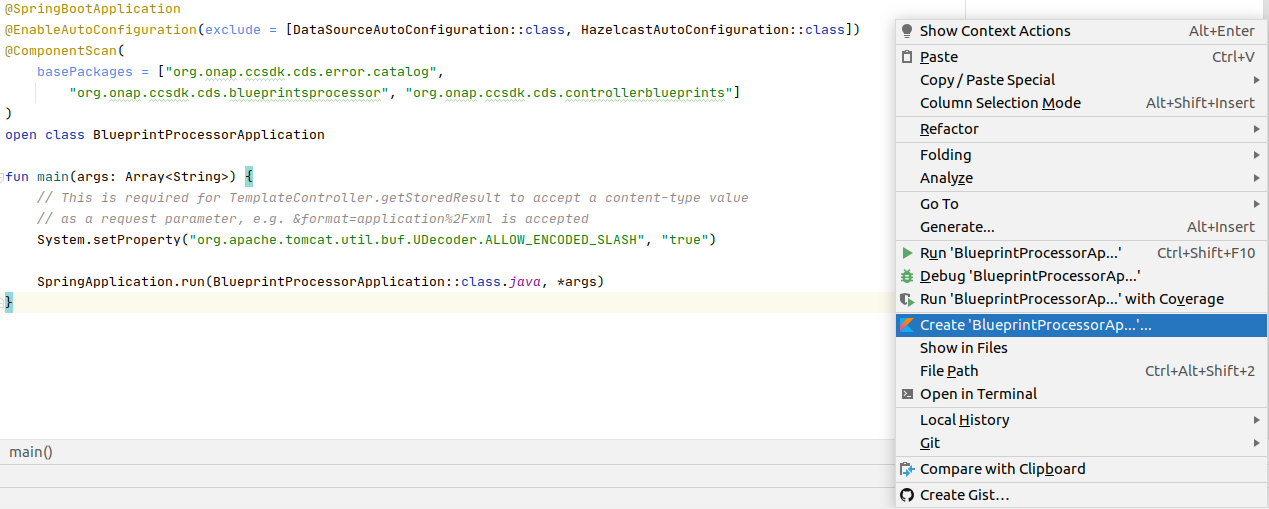
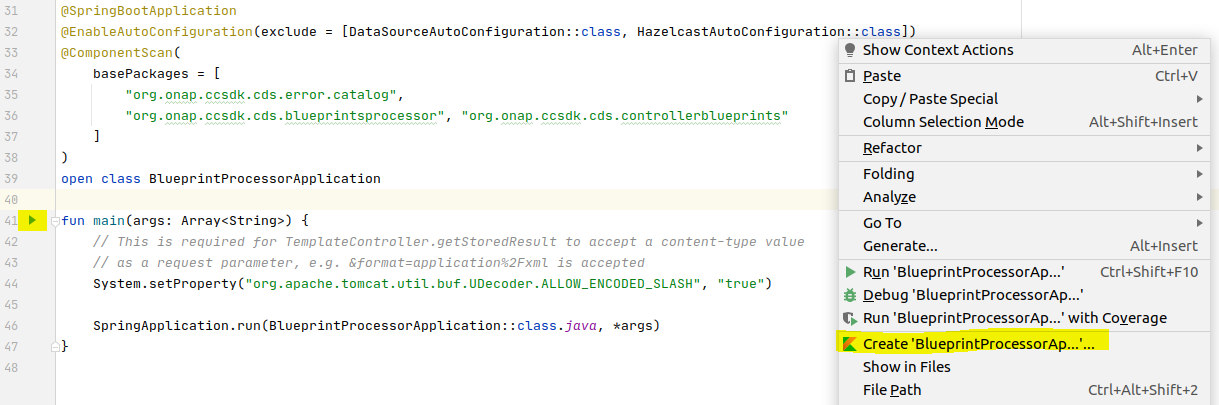
Guide Running CDS bp processor enhancements
Issue-ID: CCSDK-2640
(cherry picked from commit 4fe1cfb147e98cde707bb10c33cda7d4370a54a9)

diff --git a/docs/userguide/running-bp-processor-in-ide.rst b/docs/userguide/running-bp-processor-in-ide.rst
@@ -9,7 +9,7 @@ Running Blueprints Processor Microservice in an IDE
 Objective
 ~~~~~~~~~~~~
 
-Have the blueprint processor running locally is to use the IDE to run the code, while having the database running in a container.
+Run the blueprint processor locally in an IDE, while having the database running in a container.
 This way, code changes can be conveniently tested and debugged.
 
 Check out the code
@@ -26,6 +26,8 @@ In the checked out directory, type
 
    mvn clean install -Pq -Dadditionalparam=-Xdoclint:none
 
+Wait for the maven install command to finish until you go further.
+
 Spin up a Docker container with the database
 ~~~~~~~~~~~~~~~~~~~~~~~~~~~~~~~~~~~~~~~~~~~~~~
 
@@ -33,7 +35,7 @@ The Blueprints Processor project uses a database to store information about the 
 and therefore it needs to be online before attempting to run it.
 
 One way to create the database is by using the :file:`docker-compose.yaml` file.
-This database will require a local directory to mount a volume, before running docker-compose remember to create following directory:
+This database will require a local directory to mount a volume, therefore before running docker-compose create following directory:
 
 .. code-block:: bash
 
@@ -99,18 +101,21 @@ Import the project into the IDE
 
    .. tab:: IntelliJ IDEA
 
-      Go to *File | Open* and choose the :file:`pom.xml` file of the cds directory:
+      .. note::
+         This is the recommended IDE for running CDS blueprint processor.
+
+      Go to *File | Open* and choose the :file:`pom.xml` file of the cds/ms/blueprintprocessor directory:
 
       |imageImportProject|
 
-      Sometimes it may be necessary to reimport Maven project:
+      Import as a project. Sometimes it may be necessary to reimport Maven project, e.g. if some dependencies can't be found:
 
       |imageReimportMaven|
 
       **Override some application properties:**
 
-      After the project is compiled, a Run Configuration profile overriding some application properties
-      with custom values needs to be created, to reflect the local environment characteristics.
+      Next steps will create a run configuration profile overriding some application properties with custom values,
+      to reflect the local environment characteristics.
 
       .. tabs::
 
@@ -120,8 +125,10 @@ Import the project into the IDE
 
             ``ms/blueprintsprocessor/application/src/main/kotlin/org/onap/ccsdk/cds/blueprintsprocessor/BlueprintProcessorApplication.kt``.
 
-            Right-click inside it, at any point, to load the context menu and select create
-            BlueprintProcessorApplication configuration from context:
+            After dependencies are imported and indexes are set up you will see a green arrow
+            next to main function of BlueprintProcessorApplication class, indicating that the run configuration can now be
+            created. Right-click inside the class at any point to load the context menu and select create
+            a run configuration from context:
 
             |imageCreateRunConfigKt|
 
@@ -136,7 +143,7 @@ Import the project into the IDE
 
                -Dspring.profiles.active=dev
 
-            You can override any value from **application-dev.properties** file here. Use the following pattern:
+            Optional: You can override any value from **application-dev.properties** file here. In this case use the following pattern:
 
             .. code-block:: java
 
@@ -148,8 +155,10 @@ Import the project into the IDE
 
             ``ms/blueprintsprocessor/application/src/main/java/org/onap/ccsdk/cds/blueprintsprocessor/BlueprintProcessorApplication.java.``
 
-            Right-click inside it, at any point, to load the context menu and select create
-            BlueprintProcessorApplication configuration from context:
+            After dependencies are imported and indexes are set up you will see a green arrow
+            next to main function of BlueprintProcessorApplication class, indicating that the run configuration can now be
+            created. Right-click inside the class at any point to load the context menu and select create
+            a run configuration from context:
 
             |imageCreateRunConfigJava|
 
@@ -164,7 +173,7 @@ Import the project into the IDE
 
                -Dspring.profiles.active=dev
 
-            You can override any value from **application-dev.properties** file here. Use the following pattern:
+            Optional: You can override any value from **application-dev.properties** file here. In this case use the following pattern:
 
             .. code-block:: java
 
@@ -176,8 +185,10 @@ Import the project into the IDE
 
             ``ms/blueprintsprocessor/application/src/main/java/org/onap/ccsdk/cds/blueprintsprocessor/BlueprintProcessorApplication.java``.
 
-            Right-click inside it, at any point, to load the context menu and select create
-            BlueprintProcessorApplication configuration from context:
+            After dependencies are imported and indexes are set up you will see a green arrow
+            next to main function of BlueprintProcessorApplication class, indicating that the run configuration can now be
+            created. Right-click inside the class at any point to load the context menu and select create
+            a run configuration from context:
 
             |imageCreateRunConfigJava|
 
@@ -185,7 +196,7 @@ Import the project into the IDE
 
             |imageRunConfigJava|
 
-            **Add the following in that field:**
+            **Add the following in the field `VM Options`**
 
             .. code-block:: java
                :caption: **Custom values for properties**
@@ -233,10 +244,14 @@ Import the project into the IDE
                -Dserver.port=55555
 
 
-      **Browse Working Directory to your application path**  ``.../cds/ms/blueprintsprocessor/application``
+      **In the field 'Working Directory' browse to your application path**  ``.../cds/ms/blueprintsprocessor/application``
       **if path is not already specified correctly.**
 
-      **Add/replace the following in Blueprint's application-dev.properties file:**
+      Run configuration should now look something like this:
+
+      |imageRunConfigSetUp|
+
+      **Add/replace the following in Blueprint's application-dev.properties file.**
 
       .. code-block:: java
 
@@ -247,10 +262,13 @@ Import the project into the IDE
 
          blueprintprocessor.remoteScriptCommand.enabled=true
 
+      Take care that if a parameter already exist you need to change the value of the existing parameter to avoid duplicates.
+
 
       **Run the application:**
 
-      Select either run or debug for this Run Configuration to start the Blueprints Processor:
+      Before running Blueprint Processor check that you use the correct Java version in IntelliJ.
+      Select either run or debug for the created Run Configuration to start the Blueprints Processor:
 
       |imageRunDebug|
 
@@ -360,7 +378,6 @@ Imported packages or annotiations are not found, Run Config not available?
 
 Compilation error?
 *******************
-
 * Change Java Version to 11
 
 
@@ -399,5 +416,9 @@ Compilation error?
    :align: middle
 
 .. |imageLogsVSC| image:: media/vsc_logs.png
+   :width: 500pt
+   :align: middle
+
+.. |imageRunConfigSetUp| image:: media/run-config-set-up.png
    :width: 500pt
    :align: middle
